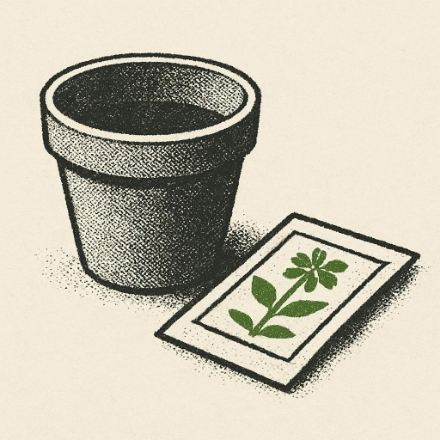
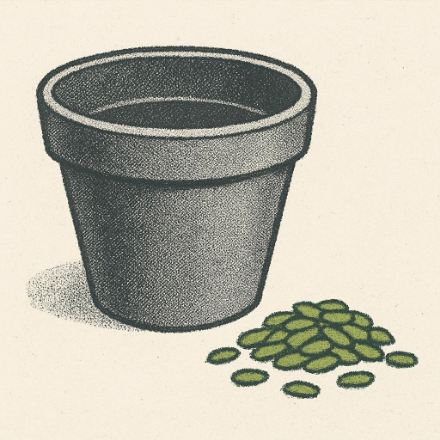
Refresh empty-state artwork and budget rejected generations

diff --git a/packages/ui/scripts/images/evidence.ts b/packages/ui/scripts/images/evidence.ts
@@ -4,6 +4,7 @@ import { URL, fileURLToPath, pathToFileURL } from "node:url";
 import type { Page } from "playwright-core";
 import { artStyles, imageKinds } from "../../src/catalog";
 import { launchChrome } from "../look";
+import { chargeImageUsd } from "./budget";
 import { comparisonStyles, routes, type ImageJob } from "./fixtures";
 
 const shots = fileURLToPath(new URL("../../shots/images/", import.meta.url));
@@ -15,6 +16,7 @@ type Usage = {
   inputTokens: number | null;
   outputTokens: number | null;
   usd: number | null;
+  reservedUsd?: number;
 };
 type Cell = { job: ImageJob; key: string; usage?: Usage | undefined };
 
@@ -24,17 +26,13 @@ const jpegPath = (key: string) => `../outputs/${key}.jpg`;
 async function measuredCells() {
   const matrix: Cell[] = JSON.parse(await readFile(join(shots, "matrix.json"), "utf8"));
   const log = await readFile(join(shots, "usage.jsonl"), "utf8");
-  const usage = new Map<string, Usage>(
-    log
-      .trim()
-      .split("\n")
-      .filter(Boolean)
-      .map((line) => {
-        const value: Usage = JSON.parse(line);
-        return [value.key, value];
-      }),
-  );
-  return { matrix: matrix.map((cell) => ({ ...cell, usage: usage.get(cell.key) })), usage };
+  const attempts: Usage[] = log
+    .trim()
+    .split("\n")
+    .filter(Boolean)
+    .map((line) => JSON.parse(line));
+  const usage = new Map(attempts.map((value) => [value.key, value]));
+  return { matrix: matrix.map((cell) => ({ ...cell, usage: usage.get(cell.key) })), attempts };
 }
 
 function cellHtml({ job: { slot, world, route, theme }, key, usage }: Cell, headings: readonly string[]) {
@@ -102,6 +100,15 @@ async function captureSheets(page: Page, matrix: Cell[]) {
     chosen.map((cell) => cellHtml(cell, [cell.job.theme.artStyle, cell.job.slot.kind])),
     6,
   );
+  await captureSheet(
+    page,
+    "gallery-empty-state",
+    "Ledge: empty-state assets for all eight styles",
+    chosen
+      .filter(({ job }) => job.slot.kind === "empty_state")
+      .map((cell) => cellHtml(cell, [cell.job.theme.artStyle])),
+    4,
+  );
 }
 
 async function sampleBuffer(page: Page, cell: Cell) {
@@ -142,7 +149,7 @@ async function exportSamples(page: Page, matrix: Cell[]) {
   await writeFile(join(samples, "manifest.json"), `${JSON.stringify(manifest, null, 2)}\n`);
 }
 
-function summarize(cells: Cell[], usage: ReadonlyMap<string, Usage>) {
+function summarize(cells: Cell[], attempts: readonly Usage[]) {
   const billed = [
     ...new Map(cells.filter((cell) => cell.usage).map((cell) => [cell.key, cell.usage!])).values(),
   ];
@@ -150,8 +157,8 @@ function summarize(cells: Cell[], usage: ReadonlyMap<string, Usage>) {
   console.log(
     `${billed.length} unique measured images; estimated $${spend.toFixed(2)} across reported usage`,
   );
-  const cumulative = [...usage.values()].reduce((sum, { usd }) => sum + (usd ?? 0), 0);
-  console.log(`All iterations: ${usage.size} unique measured images; estimated $${cumulative.toFixed(2)}`);
+  const cumulative = attempts.reduce((sum, usage) => sum + chargeImageUsd(usage), 0);
+  console.log(`All iterations: ${attempts.length} generation attempts; estimated $${cumulative.toFixed(2)}`);
   return routes.map((route) => {
     const outcomes = cells.filter(({ job }) => !job.sample && job.route.id === route.id);
     const values = outcomes.flatMap(({ usage }) => (usage ? [usage] : []));
@@ -169,8 +176,8 @@ function summarize(cells: Cell[], usage: ReadonlyMap<string, Usage>) {
 }
 
 export async function writeEvidence(publishSamples: boolean) {
-  const { matrix, usage } = await measuredCells();
-  const summary = summarize(matrix, usage);
+  const { matrix, attempts } = await measuredCells();
+  const summary = summarize(matrix, attempts);
   console.log(JSON.stringify(summary, null, 2));
   await mkdir(join(shots, "sheets"), { recursive: true });
   const browser = await launchChrome();

diff --git a/packages/ui/scripts/images/budget.test.ts b/packages/ui/scripts/images/budget.test.ts
@@ -1,0 +1,57 @@
+import { expect, it } from "vitest";
+import { appImageBudget, chargeImageUsd } from "./budget";
+import { routes } from "./fixtures";
+
+const [image2, miniLow, miniMedium] = routes;
+const accepted = [
+  { slot: "app_icon", route: image2, outputTokens: 173 },
+  { slot: "hero", route: image2, outputTokens: 107 },
+  { slot: "empty_state", route: miniMedium, outputTokens: 1056 },
+  { slot: "success", route: miniMedium, outputTokens: 1056 },
+  { slot: "error", route: miniLow, outputTokens: 272 },
+  { slot: "product", route: miniLow, outputTokens: 272 },
+  { slot: "dish", route: miniLow, outputTokens: 272 },
+  { slot: "plant", route: miniMedium, outputTokens: 1056 },
+  { slot: "pet", route: miniLow, outputTokens: 272 },
+  { slot: "place", route: miniMedium, outputTokens: 1568 },
+  { slot: "room", route: image2, outputTokens: 107 },
+  { slot: "item", route: miniLow, outputTokens: 272 },
+  { slot: "media_cover", route: miniMedium, outputTokens: 1056 },
+  { slot: "poster", route: miniMedium, outputTokens: 1056 },
+  { slot: "step_illustration", route: image2, outputTokens: 107 },
+].map((attempt) => ({ ...attempt, inputTokens: 180, outcome: "accepted" as const }));
+
+it("budgets 15 published images plus four rejected generations, including a rejected retry", () => {
+  const rejects = new Map([
+    ["hero", 2],
+    ["empty_state", 1],
+    ["plant", 1],
+  ]);
+  const fixture = accepted.flatMap((attempt) => [
+    ...Array.from({ length: rejects.get(attempt.slot) ?? 0 }, () => ({
+      ...attempt,
+      outcome: "rejected" as const,
+    })),
+    attempt,
+  ]);
+  const result = appImageBudget(fixture);
+  expect(result).toMatchObject({ attempts: 19, accepted: 15, rejected: 4, regenerations: 4 });
+  expect(appImageBudget(accepted).estimatedUsd).toBeCloseTo(0.088044, 6);
+  expect(result.rejectedUsd).toBeCloseTo(0.025836, 6);
+  expect(result.estimatedUsd).toBeCloseTo(0.11388, 6);
+});
+
+it("counts an abandoned rejected slot and reserves for missing usage without treating zero as absent", () => {
+  const result = appImageBudget([
+    { slot: "badge", outcome: "rejected", route: miniLow, inputTokens: 180, outputTokens: null },
+  ]);
+  expect(result).toEqual({
+    attempts: 1,
+    accepted: 0,
+    rejected: 1,
+    regenerations: 0,
+    estimatedUsd: 0.008,
+    rejectedUsd: 0.008,
+  });
+  expect(chargeImageUsd({ usd: 0, reservedUsd: 0.02 })).toBe(0);
+});

diff --git a/packages/ui/scripts/images/bakeoff.ts b/packages/ui/scripts/images/bakeoff.ts
@@ -5,16 +5,13 @@ import { setTimeout as delay } from "node:timers/promises";
 import { fileURLToPath, URL } from "node:url";
 import { buildImagePrompt } from "../../src/catalog";
 import { azureImageGenerator, imageRequestSize } from "./azure-image";
-import { bakeoffJobs, sampleJobs, type ImageJob, type Route } from "./fixtures";
+import { chargeImageUsd, estimateImageUsd, reserveUsd } from "./budget";
+import { bakeoffJobs, sampleJobs, type ImageJob } from "./fixtures";
 
 const root = fileURLToPath(new URL("../../shots/images/", import.meta.url));
 const maxUsd = 5;
 const workersPerDeployment = 3;
 const attemptsOnThrottle = 4;
-const reserveUsd = { "image2-low": 0.02, "mini-low": 0.008, "mini-medium": 0.018 } satisfies Record<
-  Route["id"],
-  number
->;
 const canary = process.argv.includes("--canary");
 const planned = process.argv.includes("--plan");
 const sheetsOnly = process.argv.includes("--sheets");
@@ -47,12 +44,6 @@ async function attempt({ job, prompt }: Work, generate: Generator) {
   }
 }
 
-function estimate(route: Route, input: number | null, output: number | null) {
-  return input === null || output === null
-    ? null
-    : (input * route.textRate + output * route.imageRate) / 1_000_000;
-}
-
 async function alreadyRendered(key: string) {
   return access(join(root, "outputs", `${key}.jpg`)).then(
     () => true,
@@ -72,10 +63,7 @@ async function checkBudget(work: Work[]) {
     .trim()
     .split("\n")
     .filter(Boolean)
-    .reduce((sum, line) => {
-      const { usd, reservedUsd } = JSON.parse(line) as { usd: number | null; reservedUsd?: number };
-      return sum + (usd ?? reservedUsd ?? Math.max(...Object.values(reserveUsd)));
-    }, 0);
+    .reduce((sum, line) => sum + chargeImageUsd(JSON.parse(line)), 0);
   const pending = await Promise.all(
     work.map(async ({ key, job }) => ((await alreadyRendered(key)) ? 0 : reserveUsd[job.route.id])),
   );
@@ -94,7 +82,7 @@ async function render(work: Work, generate: Generator) {
     return result.status;
   }
   const { seconds, inputTokens, outputTokens } = result;
-  const usd = estimate(job.route, inputTokens, outputTokens);
+  const usd = estimateImageUsd(job.route, inputTokens, outputTokens);
   await writeFile(path, result.jpeg);
   await appendFile(
     join(root, "usage.jsonl"),

diff --git a/packages/ui/scripts/images/budget.ts b/packages/ui/scripts/images/budget.ts
@@ -1,0 +1,57 @@
+import type { Route } from "./fixtures";
+
+export const reserveUsd = { "image2-low": 0.02, "mini-low": 0.008, "mini-medium": 0.018 } satisfies Record<
+  Route["id"],
+  number
+>;
+
+export function estimateImageUsd(route: Route, input: number | null, output: number | null) {
+  return input === null || output === null
+    ? null
+    : (input * route.textRate + output * route.imageRate) / 1_000_000;
+}
+
+export function chargeImageUsd({ usd, reservedUsd }: { usd: number | null; reservedUsd?: number }) {
+  return usd ?? reservedUsd ?? Math.max(...Object.values(reserveUsd));
+}
+
+type Attempt = {
+  slot: string;
+  outcome: "rejected" | "accepted";
+  route: Route;
+  inputTokens: number | null;
+  outputTokens: number | null;
+};
+
+/** Count every billable generation, not just the asset eventually published. */
+export function appImageBudget(attempts: readonly Attempt[]) {
+  const seen = new Set<string>();
+  const accepted = new Set<string>();
+  let rejected = 0;
+  let regenerations = 0;
+  let estimatedUsd = 0;
+  let rejectedUsd = 0;
+  for (const { slot, outcome, route, inputTokens, outputTokens } of attempts) {
+    if (accepted.has(slot)) throw new Error(`Unexpected generation after acceptance: ${slot}`);
+    if (seen.has(slot)) regenerations++;
+    seen.add(slot);
+    const charge = chargeImageUsd({
+      usd: estimateImageUsd(route, inputTokens, outputTokens),
+      reservedUsd: reserveUsd[route.id],
+    });
+    estimatedUsd += charge;
+    if (outcome === "accepted") accepted.add(slot);
+    else {
+      rejected++;
+      rejectedUsd += charge;
+    }
+  }
+  return {
+    attempts: attempts.length,
+    accepted: accepted.size,
+    rejected,
+    regenerations,
+    estimatedUsd,
+    rejectedUsd,
+  };
+}

diff --git a/packages/ui/scripts/images/fixtures.ts b/packages/ui/scripts/images/fixtures.ts
@@ -7,7 +7,7 @@ const subjects = {
   cover: ["beagle beside a trail leash", "Trot"],
   onboarding: ["pour-over coffee dripper and a fresh cup", "Cafe"],
   pattern: ["stacked weight plates", "Gym"],
-  empty_state: ["empty terracotta pot and a packet of seeds", "Ledge"],
+  empty_state: ["plain empty terracotta pot and a small pile of loose seeds", "Ledge"],
   success: ["dog leash hanging beside muddy walking boots", "Trot"],
   badge: ["jumprope looped around a kettlebell", "Gym"],
   error: ["tipped paper cup beside a coffee dripper", "Cafe"],

diff --git a/apps/gallery/app/art-style-fixture.ts b/apps/gallery/app/art-style-fixture.ts
@@ -46,7 +46,7 @@ export const artStyleScreen = {
       c: "Empty",
       title: "No repotting due",
       sub: "Plants due for a bigger pot will appear here.",
-      photo: { kind: "empty_state", subject: "empty terracotta pot and a packet of seeds" },
+      photo: { kind: "empty_state", subject: "plain empty terracotta pot and a small pile of loose seeds" },
     },
   ],
 } satisfies ScreenLike;

diff --git a/docs/catalog/images.md b/docs/catalog/images.md
@@ -71,3 +71,9 @@ At the measured sizes, an icon, hero, three moments (`empty_state`, `success`, `
 and one of each of the ten content kinds cost an estimated **$0.09** at the
 [Azure public token rates](https://azure.microsoft.com/en-us/pricing/details/cognitive-services/openai-service/),
 before vision checks, regeneration, taxes or region-specific pricing.
+
+The budget fixture uses the measured output sizes and 180 input tokens per generation. With
+two rejected hero attempts and one rejection each for the empty state and plant, it counts
+19 generations for the 15 published images: **$0.114** instead of **$0.088** for generation
+alone. Rejected generations still cost money; when the provider omits usage, the fixture
+uses the route's reserved estimate. This fixture does not price the vision check itself.

diff --git a/packages/ui/src/catalog/images/templates/empty_state.md b/packages/ui/src/catalog/images/templates/empty_state.md
@@ -2,10 +2,12 @@
 
 Show a quiet visual cue for what belongs here, as a small still life with one to three objects and generous open ground. The scene should feel expectant rather than sad.
 
+Show the objects themselves, unpackaged and unmarked. No packets, wrappers, tags, labels or stamped marks.
+
 No text, numerals, lettering, watermarks, logos or real brands. No real people or recognizable likenesses. No hands unless essential to the subject.
 
 # Reject if
 
 - Any text, logo, watermark, real brand, recognizable real person or unnecessary hand.
 - The subject or requested art treatment is not recognizable.
-- The image reads as a completed collection, a warning or a busy ornamental scene.
+- There is packaging, or the image reads as a completed collection, a warning or a busy ornamental scene.
